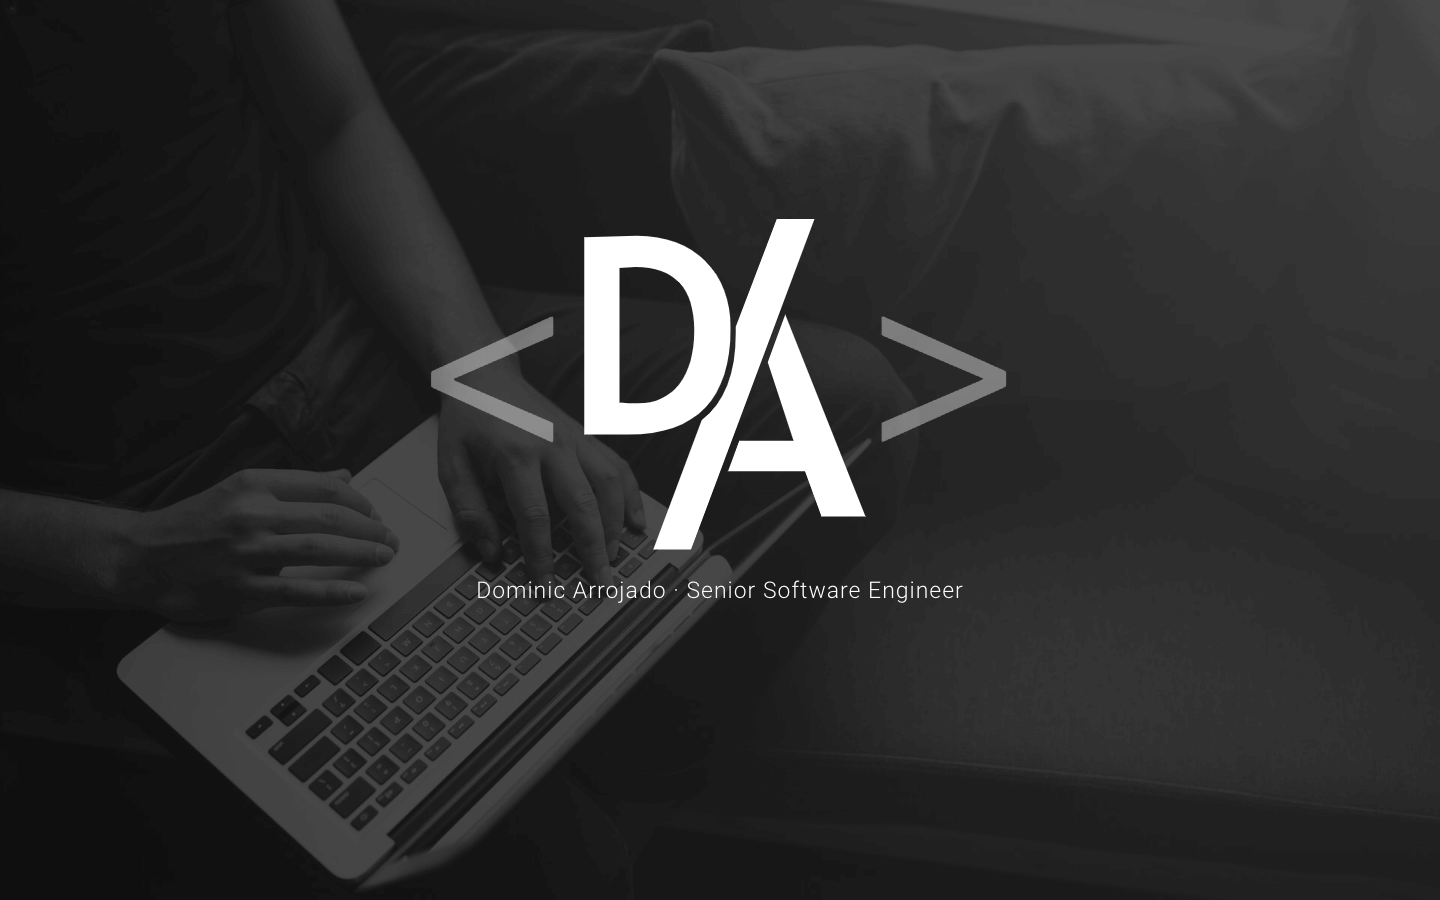
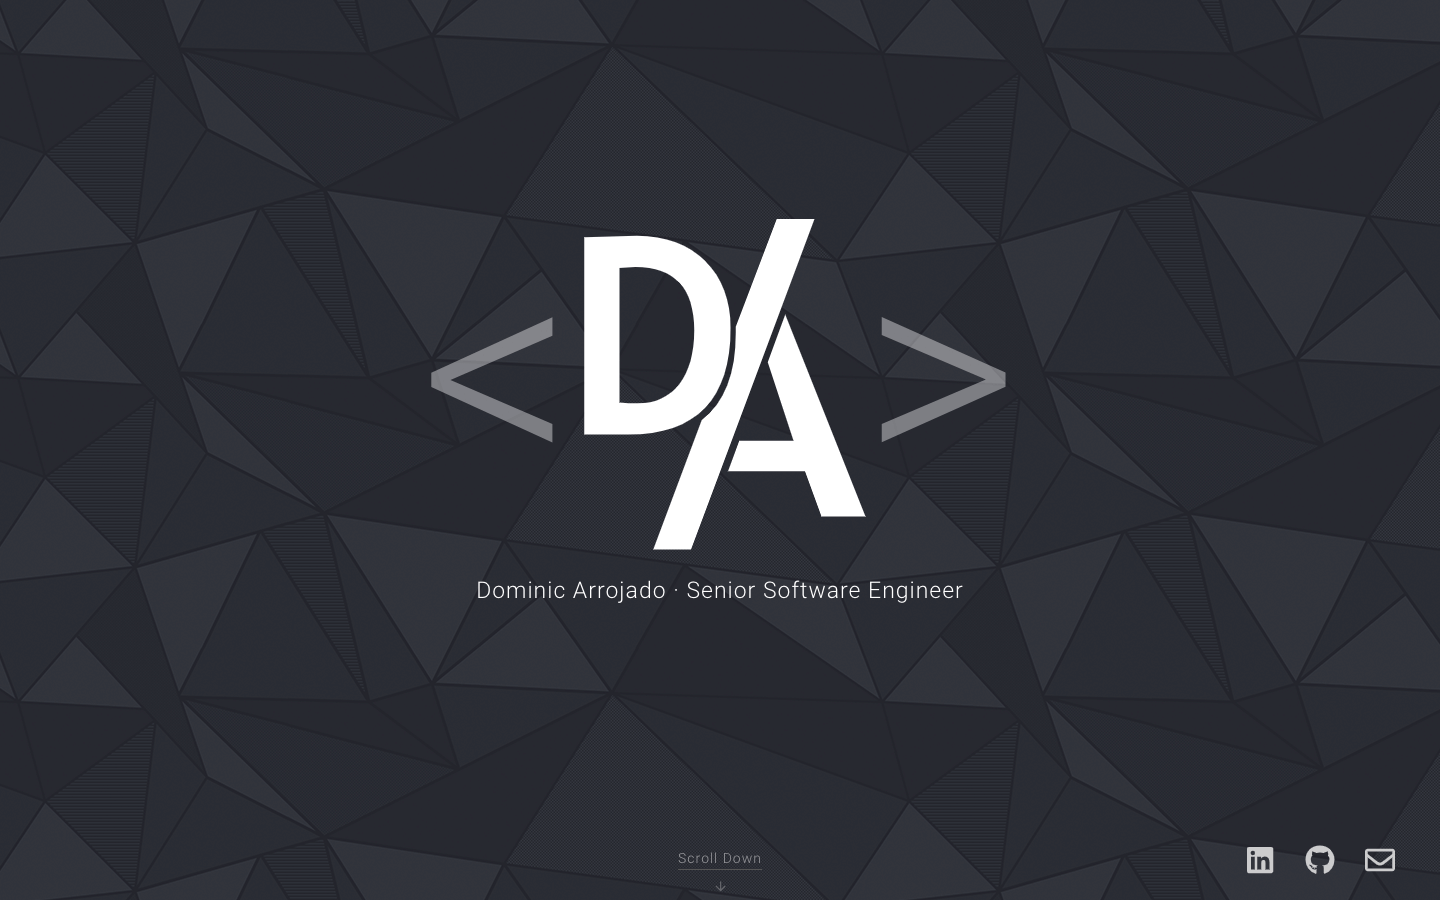
Change hero image to moving pattern

diff --git a/src/pages/Index.css b/src/pages/Index.css
@@ -16,12 +16,11 @@ Hero
   width: 100%;
   min-height: 100%;
   padding: 100px 0;
-  background-color: #222222;
+  background-color: #2c2c34;
   overflow: hidden;
 }
 
-.page-index .hero > .img,
-.page-index .hero > .img::after {
+.page-index .hero > .img {
   position: absolute;
   top: 0;
   left: 0;
@@ -29,23 +28,14 @@ Hero
   height: 100%;
 }
 
-.page-index .hero > .img::after {
-  content: '';
-  background-color: #000000;
-  opacity: 0.6;
-  pointer-events: none;
-  z-index: 1;
-}
-
 .page-index .hero > .img {
-  background-image: url('./../assets/images/bg-home.jpg');
-  background-repeat: no-repeat;
-  background-size: cover;
-  background-position: center;
+  background-image: url('./../assets/images/bg-pattern.gif');
+  background-repeat: repeat;
+  background-position: center 0;
   opacity: 0;
-  transform: scale(1.1);
   will-change: transform;
   transition: opacity 0.5s linear, transform 0.4s cubic-bezier(0, 0, 0, 1);
+  animation: slide 200s linear infinite;
 }
 
 .page-index .hero.animate > .img {

diff --git a/src/index.css b/src/index.css
@@ -248,11 +248,20 @@ Animations
 }
 
 @keyframes fadeIn {
-  from {
+  0% {
     opacity: 0;
   }
-  to {
+  100% {
     opacity: 1;
+  }
+}
+
+@keyframes slide {
+  0% {
+    background-position: center 0;
+  }
+  100% {
+    background-position: center 3240px;
   }
 }
 

diff --git a/src/pages/Index.js b/src/pages/Index.js
@@ -36,7 +36,7 @@ function Index() {
 
       heroImg.current.style.transform = `translate3d(0, ${
         window.pageYOffset * 0.2
-      }px, 0) scale(1.1)`;
+      }px, 0)`;
 
       const opacity = 1 - (window.scrollY / document.body.scrollHeight) * 20;
 
